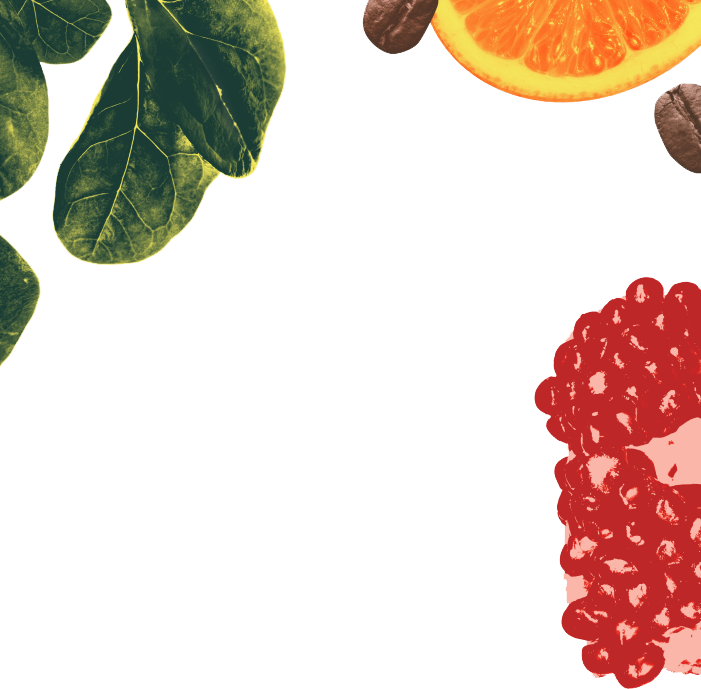
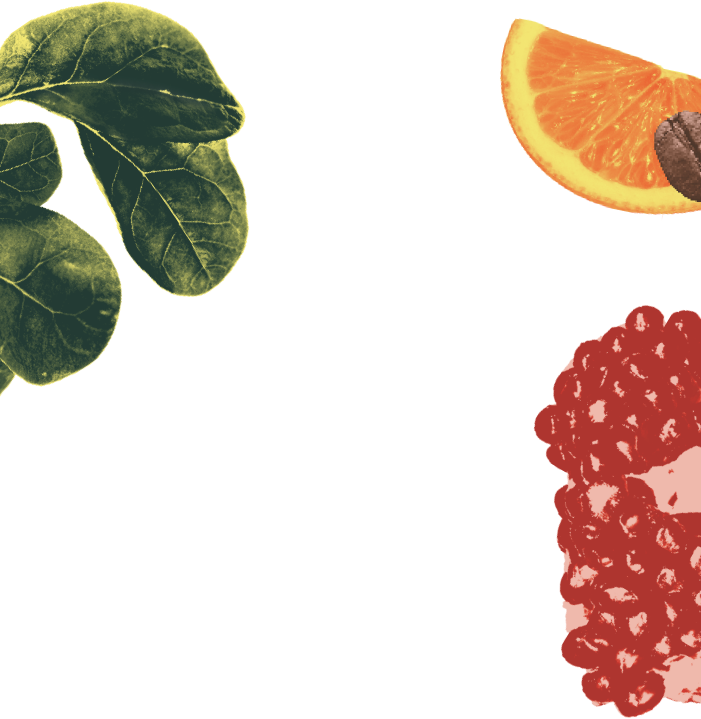
cc newsletter upd

diff --git a/cc/email_v1.html b/cc/email_v1.html
@@ -33,6 +33,7 @@
 			.h-a{height:auto !important;}
 			.hm{display:none!important;width:0!important;height:0!important;padding:0!important;font-size:0!important;line-height:0!important;}
 			.lh-28{line-height:28px!important;}
+			.pb-30{padding-bottom:30px!important;}
 			.pb-40{padding-bottom:40px!important;}
 			.pb-50{padding-bottom:50px!important;}
 			.pl-44{padding-left:44px!important;}
@@ -40,10 +41,11 @@
 			.plr-10{padding-left:10px!important; padding-right:10px!important;}
 			.plr-15{padding-left:15px!important; padding-right:15px!important;}
 			.pr-15{padding-right:15px!important;}
-			.pt-60{padding-top:60px!important;}
+			.pt-35{padding-top:35px!important;}
 			.w-100p{width:100%!important;}
 			.w-15{width:15px!important;}
 			.wi-100p img{width:100%!important; height:auto!important;}
+			.wi-200 img{width:200px!important; height:auto!important;}
 
 			.frame{
 				padding:15px 15px 35px!important;
@@ -52,7 +54,7 @@
 				background:#ebe8e1!important;
 			}
 			.bg-m1{
-				background:#ebe8e1 url(https://i.imgur.com/Ra4nQTe.png) no-repeat !important;
+				background:#ebe8e1 url(https://i.imgur.com/choNjVm.png) no-repeat !important;
 				background-size:100% auto !important;
 				background-position:top center !important;
 			}
@@ -103,10 +105,10 @@
 			<td>
 				<table class="w-100p" width="701" align="center" style="background:#fffffe; max-width:701px;" cellpadding="0" cellspacing="0">
 					<tr>
-						<td class="bg-m1" bgcolor="#ebe8e1" background="https://i.imgur.com/dEvQPmf.jpg" style="background:#ebe8e1 url(https://i.imgur.com/dEvQPmf.jpg); background-repeat:no-repeat; background-size:cover; background-position:top center;">
+						<td class="bg-m1" bgcolor="#ebe8e1" background="https://i.imgur.com/a5aLLBq.jpg" style="background:#ebe8e1 url(https://i.imgur.com/a5aLLBq.jpg); background-repeat:no-repeat; background-size:cover; background-position:top center;">
 								<!--[if gte mso 9]>
 									<v:rect xmlns:v="urn:schemas-microsoft-com:vml" fill="true" stroke="false" style="width:701px; height:1190px;">
-										<v:fill type="frame" src="https://i.imgur.com/dEvQPmf.jpg" color="#ebe8e1" />
+										<v:fill type="frame" src="https://i.imgur.com/a5aLLBq.jpg" color="#ebe8e1" />
 										<v:textbox style="padding-top:0; padding-right:0; padding-bottom:0; padding-left:0;">
 									<![endif]-->
 									<table width="100%" cellpadding="0" cellspacing="0">
@@ -115,10 +117,20 @@
 											<td valign="top">
 												<table width="100%" cellpadding="0" cellspacing="0">
 													<tr>
-														<td class="hm" height="129" align="center"><img src="cfs.jpg" width="180" height="70" style="width:180px; height:70px;" alt="Chobani Foodservice" /></td>
+														<td class="hm" height="15"></td>
 													</tr>
 													<tr>
-														<td class="pt-60 pr-15 pb-40 pl-44" align="center">
+														<td class="pt-35 plr-0 pb-30 h-a wi-200" align="center" height="82" style="padding:0 0 0 29px;">
+															<a style="text-decoration:none;" href="https://www.chobani.com/">
+																<img src="logo-01.png" width="253" style="width:253px; font:bold 20px/22px Times New Roman, Times, serif, ChobaniSerif; color:#513629; vertical-align:top;" hspace="0" alt="Chobani&reg; Foodservice" />
+															</a>
+														</td>
+													</tr>
+													<tr>
+														<td class="hm" height="23"></td>
+													</tr>
+													<tr>
+														<td class="pr-15 pb-40 pl-44" align="center">
 															<table width="100%" cellpadding="0" cellspacing="0">
 																<tr>
 																	<td class="hm" width="71"></td>
@@ -130,7 +142,7 @@
 														</td>
 													</tr>
 													<tr>
-														<td class="hm" height="84"></td>
+														<td class="hm" height="83"></td>
 													</tr>
 													<tr>
 														<td class="plr-15 pb-50 bg-m2">
@@ -144,7 +156,7 @@
 																				</td>
 																			</tr>
 																			<tr>
-																				<td class="plr-0 fs-22 lh-28" align="center" style="padding:41px 20px 32px; font:300 27px/32px Times New Roman, Times, serif, ChobaniSerif; color:#513629; letter-spacing:0.4px;">
+																				<td class="plr-0 fs-22 lh-28" align="center" style="padding:42px 20px 31px; font:300 26px/32px Times New Roman, Times, serif, ChobaniSerif; color:#513629; letter-spacing:0.5px;">
 																					The Chobani<span style="font-size:10px; line-height:0; vertical-align:11px;">®</span> Culinary Coalition celebrates unique perspectives from chefs, baristas, and registered dietitians—makers in the industry who seek to redefine culinary trends.
 																				</td>
 																			</tr>
@@ -249,7 +261,6 @@
 			<tr>
 				<td class="hm" style="line-height:0;"><div style="white-space:nowrap; font:15px/0 courier;">&nbsp; &nbsp; &nbsp; &nbsp; &nbsp; &nbsp; &nbsp; &nbsp; &nbsp; &nbsp; &nbsp; &nbsp; &nbsp; &nbsp; &nbsp; &nbsp; &nbsp; &nbsp; &nbsp; &nbsp; &nbsp; &nbsp; &nbsp; &nbsp; &nbsp; &nbsp; &nbsp; &nbsp; &nbsp; &nbsp; &nbsp; &nbsp; &nbsp; &nbsp; &nbsp; &nbsp; &nbsp; &nbsp; &nbsp;</div></td>
 			</tr>
-
 		</table>
 	</body>
 	</html>
